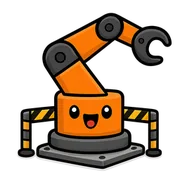
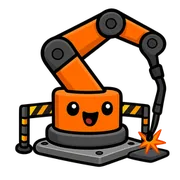
Industrial robot welds; debuts at level 7 with a 'new robot' case page
Claude-Session: https://claude.ai/code/session_019QwctBLnb4UTXMJBnbargq

diff --git a/index.html b/index.html
@@ -845,7 +845,10 @@ SECTORS.sort((a, b) => a.key.codePointAt(0) - b.key.codePointAt(0));
 // 5×6이면 4개짜리 매치가 잦아져 휴머노이드가 너무 쉽게 나와서 5×5 유지
 // 조건 타일: 6단계부터 노사합의(현대차), 9단계부터 해외수출 성조기(미국 손님), 10단계부터 국내생산 태극기(방위산업)
 const BASE_TILES = ['wheel', 'auto', 'arm', 'tool', 'floor', 'legs'];
-const TILE_FROM = { union: 6, made: 9, korea: 10 };  // 노사합의는 타일이 5종인 6단계부터
+const TILE_FROM = { union: 6, made: 9, korea: 10 };
+// 새 로봇이 처음 나오는 단계: 그 전에는 안 나오고, 그 판에는 꼭 나옴 (판 시작에 '새 로봇 등장!' 사례 페이지)
+const ROBOT_FROM = { indus: 7 };
+const robotOpen = (r, lv) => !ROBOT_FROM[r] || lv >= ROBOT_FROM[r];  // 노사합의는 타일이 5종인 6단계부터
 const tileCount = lv => lv >= 10 ? 6 : lv >= 5 ? 5 : 4;
 const poolAt = lv => [...BASE_TILES, ...Object.keys(TILE_FROM).filter(t => lv >= TILE_FROM[t])];
 // 주문 하나에 필요한 부품: 로봇 부품 × 대수 + 해금된 조건 칸(해외수출·국내생산·노사합의 각 1칸 = 그 타일 3개 맞추기)
@@ -872,16 +875,18 @@ function levelDef(lv) {
   const FIXED_SPECIAL = { 5: 'gundam', 8: 'eva', 11: 'term', 14: 'tf' };
   const special = FIXED_SPECIAL[lv] || (lv >= 17 && (lv - 17) % 3 === 0 ? ['term', 'gundam', 'eva', 'tf'][Math.floor(Math.random() * 4)] : 'hum');
   // 특별 로봇에 필요한 일반 부품(SI, 트랜스포머는 바퀴)은 보드에 꼭 포함
-  const must = [...new Set([...ROBOTS[special].parts.filter(p => !isSpec(p)), ...(fresh ? [fresh] : [])])];
+  const debut = Object.keys(ROBOT_FROM).find(r => ROBOT_FROM[r] === lv);
+  const must = [...new Set([...ROBOTS[special].parts.filter(p => !isSpec(p)), ...(fresh ? [fresh] : []), ...(debut ? ROBOTS[debut].parts : [])])].slice(0, n);
   const tryPick = (minRobots, minOrders, allUsed) => {
     for (let k = 0; k < 300; k++) {
       const tiles = [...must, ...shuffled(pool.filter(t => !must.includes(t))).slice(0, n - must.length)];
-      const orders = ORDERS.filter(o => fitsLevel(o, lv, pool) && orderParts(o, pool).every(p => p === special || tiles.includes(p)));
+      const orders = ORDERS.filter(o => robotOpen(o.want, lv) && fitsLevel(o, lv, pool) && orderParts(o, pool).every(p => p === special || tiles.includes(p)));
       const normal = orders.filter(o => !isSpec(o.want));
       const robots = [...new Set(orders.map(o => o.want))];
       if (robots.filter(r => !isSpec(r)).length < minRobots || normal.length < minOrders) continue;
+      if (debut && !robots.includes(debut)) continue;
       if (allUsed && !tiles.every(t => orders.some(o => orderParts(o, pool).includes(t)))) continue;
-      return { lv, tiles, robots, pool, fresh, special };
+      return { lv, tiles, robots, pool, fresh, special, debut };
     }
     return null;
   };
@@ -1726,11 +1731,11 @@ function pickCase() {
   const list = fresh.length ? fresh : all;
   return list.length ? list[Math.floor(Math.random() * list.length)] : null;
 }
-function caseShow(o) {
+function caseShow(o, title = '납품 사례') {
   return new Promise(done => {
     const el = document.createElement('div');
     el.className = 'newtiles casepage';
-    el.innerHTML = `<div class="nt-panel"><div class="nt-head cs-head">납품 사례</div>
+    el.innerHTML = `<div class="nt-panel"><div class="nt-head cs-head">${title}</div>
       <div class="case-bot">${o.robotIcon || ROBOTS[o.want].icon}</div>
       <div class="case-name">${robotLabel(o)}</div>
       <div class="case-where">${o.icon} ${o.ind}${o.who ? ` · ${o.who}` : ''}</div>
@@ -2016,7 +2021,7 @@ const faceHTML = (e, who = 'suit') => FACE_ART[who][e] || FACE_ART.suit[e] || e;
 // 같은 그림이 여러 개 있어도 박자가 겹치지 않게 시작점을 흩뜨림
 // 그림을 다시 그려도 폰에 남은 옛 그림이 보이지 않게 주소에 버전을 붙임
 // 파일마다 내용이 바뀔 때만 새로 받도록 파일 해시를 붙임 (빌드할 때 채움)
-const ART_HASH = {"tile-gundam-a.png": "41a00219", "ind-school-a.png": "1b0fc977", "robot-cobot-cook-b.png": "3f739fa6", "tile-tool-a.png": "f174149f", "tile-made-a.png": "d557ba97", "ind-training-b.png": "0efc1d0b", "robot-qarm-a.png": "901f7afc", "tile-legs-b.png": "c0299b41", "tile-union-b.png": "b3a03a42", "robot-indus-b.png": "beaf9ac1", "face-cook-frown.png": "e01a4907", "face-cook-neutral.png": "71441525", "ind-battery-b.png": "6e2bd18d", "ind-fire-a.png": "a71484d3", "face-trump-neutral.png": "5aecac90", "tile-legs-a.png": "2faadad6", "face-worker-angry.png": "eb6b88ed", "ind-steel-a.png": "0f070238", "face-suitf-delight.png": "d729900f", "ind-steel-b.png": "e122612f", "ind-defense-b.png": "5aa959f1", "face-cook-angry.png": "50c65318", "ind-port-b.png": "6f5dc395", "tile-tf-a.png": "d2bc0939", "ind-factory-a.png": "909659fd", "tile-term-b.png": "fa8e5b3f", "face-neutral.png": "a9a959b5", "tile-wheel-a.png": "9e98ebac", "face-cook-smile.png": "be9219e0", "robot-indus-a.png": "2bfe4680", "tile-korea-b.png": "ebe1008b", "face-trump-tear.png": "21d22245", "tile-auto-b.png": "bb58686e", "ind-material-b.png": "a8f27197", "tile-korea-a.png": "d1987f19", "tile-union-a.png": "d48507d4", "ind-auto-a.png": "9a8abf4f", "face-frown.png": "26865767", "robot-centaur-a.png": "a9e1e03b", "tile-auto-a.png": "e7100d25", "robot-cobot-cook-a.png": "2acb022c", "face-worker-tear.png": "940dcfc3", "ind-autoparts-b.png": "a5dbd76a", "face-suitf-angry.png": "5b24ceb5", "face-suitf-tear.png": "d0923069", "robot-centaur-b.png": "848f1932", "robot-mm-a.png": "e5da97cf", "ind-defense-a.png": "23a0651c", "robot-quad-a.png": "1e1384cf", "ind-autoparts-a.png": "26dcf7ce", "tile-eva-b.png": "b64d5546", "face-cook-tear.png": "d529800c", "tile-gundam-b.png": "69722c17", "face-trump-delight.png": "e41c1f7d", "face-angry.png": "8542c3c5", "tile-floor-b.png": "7bfb4d09", "face-suitf-smile.png": "2bfa949d", "ind-material-a.png": "2c67685e", "tile-term-a.png": "f86a988f", "tile-eva-a.png": "48055f29", "tile-hum-a.png": "cdc85433", "ind-port-a.png": "0e5340b9", "ind-police-a.png": "717025fa", "wheel-tilt-ref.png": "4a1e31a2", "robot-cobot-a.png": "bb066d5e", "face-trump-angry.png": "6fc0cf6d", "tile-wheel-b.png": "df5d2104", "face-worker-neutral.png": "f4f1ff96", "robot-amr-a.png": "21455470", "face-delight.png": "4b63238d", "face-trump-frown.png": "4102f723", "robot-mm-b.png": "41cc89c7", "ind-fire-b.png": "c530534e", "ind-police-b.png": "750b1169", "ind-ess-b.png": "c7fac005", "ind-training-a.png": "a9fe00e5", "tile-tf-b.png": "23f3efda", "ind-aircraft-a.png": "53a6b218", "ind-school-b.png": "a14af652", "tile-arm-b.png": "6cb9dab3", "face-worker-delight.png": "56fdb189", "face-worker-smile.png": "7eaefd7c", "robot-quad-b.png": "9b27fe7b", "ind-chicken-a.png": "bd4bc4e3", "face-cook-delight.png": "5ceb20b0", "ind-battery-a.png": "2ead7359", "robot-agv-b.png": "397f8942", "face-tear.png": "7cacead6", "face-suitf-neutral.png": "b29259fe", "ind-auto-b.png": "f90715bb", "ind-shipyard-a.png": "7c43481e", "tile-tool-b.png": "c8c8a23a", "ind-factory-b.png": "b9dfaab4", "ind-chicken-b.png": "b4930a6b", "ind-shipyard-b.png": "098fdbae", "robot-qarm-b.png": "abd9a737", "tile-arm-a.png": "cd420a51", "tile-made-b.png": "7077aabd", "tile-floor-a.png": "14074a30", "robot-cobot-weld-a.png": "da53987b", "robot-agv-a.png": "ee67b65c", "ind-logistics-b.png": "9c5aeeca", "face-smile.png": "786eeb95", "face-worker-frown.png": "0f8d8086", "robot-cobot-weld-b.png": "a9e69108", "robot-amr-b.png": "e23a5198", "tile-hum-b.png": "01ca7c8b", "ind-ess-a.png": "83fff111", "face-suitf-frown.png": "1236f440", "ind-aircraft-b.png": "6afa5f2a", "face-trump-smile.png": "03674df8", "robot-cobot-b.png": "7ea58bc1", "ind-logistics-a.png": "b1b04f38"};
+const ART_HASH = {"tile-gundam-a.png": "41a00219", "ind-school-a.png": "1b0fc977", "robot-cobot-cook-b.png": "3f739fa6", "tile-tool-a.png": "f174149f", "tile-made-a.png": "d557ba97", "ind-training-b.png": "0efc1d0b", "robot-qarm-a.png": "901f7afc", "tile-legs-b.png": "c0299b41", "tile-union-b.png": "b3a03a42", "robot-indus-b.png": "565ad815", "face-cook-frown.png": "e01a4907", "face-cook-neutral.png": "71441525", "ind-battery-b.png": "6e2bd18d", "ind-fire-a.png": "a71484d3", "face-trump-neutral.png": "5aecac90", "tile-legs-a.png": "2faadad6", "face-worker-angry.png": "eb6b88ed", "ind-steel-a.png": "0f070238", "face-suitf-delight.png": "d729900f", "ind-steel-b.png": "e122612f", "ind-defense-b.png": "5aa959f1", "face-cook-angry.png": "50c65318", "ind-port-b.png": "6f5dc395", "tile-tf-a.png": "d2bc0939", "ind-factory-a.png": "909659fd", "tile-term-b.png": "fa8e5b3f", "face-neutral.png": "a9a959b5", "tile-wheel-a.png": "9e98ebac", "face-cook-smile.png": "be9219e0", "robot-indus-a.png": "ff622ca7", "tile-korea-b.png": "ebe1008b", "face-trump-tear.png": "21d22245", "tile-auto-b.png": "bb58686e", "ind-material-b.png": "a8f27197", "tile-korea-a.png": "d1987f19", "tile-union-a.png": "d48507d4", "ind-auto-a.png": "9a8abf4f", "face-frown.png": "26865767", "robot-centaur-a.png": "a9e1e03b", "tile-auto-a.png": "e7100d25", "robot-cobot-cook-a.png": "2acb022c", "face-worker-tear.png": "940dcfc3", "ind-autoparts-b.png": "a5dbd76a", "face-suitf-angry.png": "5b24ceb5", "face-suitf-tear.png": "d0923069", "robot-centaur-b.png": "848f1932", "robot-mm-a.png": "e5da97cf", "ind-defense-a.png": "23a0651c", "robot-quad-a.png": "1e1384cf", "ind-autoparts-a.png": "26dcf7ce", "tile-eva-b.png": "b64d5546", "face-cook-tear.png": "d529800c", "tile-gundam-b.png": "69722c17", "face-trump-delight.png": "e41c1f7d", "face-angry.png": "8542c3c5", "tile-floor-b.png": "7bfb4d09", "face-suitf-smile.png": "2bfa949d", "ind-material-a.png": "2c67685e", "tile-term-a.png": "f86a988f", "tile-eva-a.png": "48055f29", "tile-hum-a.png": "cdc85433", "ind-port-a.png": "0e5340b9", "ind-police-a.png": "717025fa", "wheel-tilt-ref.png": "4a1e31a2", "robot-cobot-a.png": "bb066d5e", "face-trump-angry.png": "6fc0cf6d", "tile-wheel-b.png": "df5d2104", "indus-ref.png": "2bfe4680", "face-worker-neutral.png": "f4f1ff96", "robot-amr-a.png": "21455470", "face-delight.png": "4b63238d", "face-trump-frown.png": "4102f723", "robot-mm-b.png": "41cc89c7", "ind-fire-b.png": "c530534e", "ind-police-b.png": "750b1169", "ind-ess-b.png": "c7fac005", "ind-training-a.png": "a9fe00e5", "tile-tf-b.png": "23f3efda", "ind-aircraft-a.png": "53a6b218", "ind-school-b.png": "a14af652", "tile-arm-b.png": "6cb9dab3", "face-worker-delight.png": "56fdb189", "face-worker-smile.png": "7eaefd7c", "robot-quad-b.png": "9b27fe7b", "ind-chicken-a.png": "bd4bc4e3", "face-cook-delight.png": "5ceb20b0", "ind-battery-a.png": "2ead7359", "robot-agv-b.png": "397f8942", "face-tear.png": "7cacead6", "face-suitf-neutral.png": "b29259fe", "ind-auto-b.png": "f90715bb", "ind-shipyard-a.png": "7c43481e", "tile-tool-b.png": "c8c8a23a", "ind-factory-b.png": "b9dfaab4", "ind-chicken-b.png": "b4930a6b", "ind-shipyard-b.png": "098fdbae", "robot-qarm-b.png": "abd9a737", "tile-arm-a.png": "cd420a51", "tile-made-b.png": "7077aabd", "tile-floor-a.png": "14074a30", "robot-cobot-weld-a.png": "da53987b", "robot-agv-a.png": "ee67b65c", "ind-logistics-b.png": "9c5aeeca", "face-smile.png": "786eeb95", "face-worker-frown.png": "0f8d8086", "robot-cobot-weld-b.png": "a9e69108", "robot-amr-b.png": "e23a5198", "tile-hum-b.png": "01ca7c8b", "ind-ess-a.png": "83fff111", "face-suitf-frown.png": "1236f440", "ind-aircraft-b.png": "6afa5f2a", "face-trump-smile.png": "03674df8", "robot-cobot-b.png": "7ea58bc1", "ind-logistics-a.png": "b1b04f38"};
 // 게임에서는 가벼운 webp(assets/w/)를 씀. 파일 이름은 png와 같고 확장자만 다름
 const av = f => { const n = f.replace('assets/', ''); return `assets/w/${n.replace(/\.png$/, '.webp')}?v=${ART_HASH[n] || '0'}`; };
 // 업종 아이콘(ind-)은 a프레임만, 로봇·부품은 a·b를 번갈아 (팔이 까딱, 다리가 제자리걸음 등)
@@ -2378,7 +2383,7 @@ function banner(text, delay) {
 }
 
 // ───────── 진행 ─────────
-const BUILD_V = '1003-194641';
+const BUILD_V = '1003-194929';
 function loop(t) {
   const dt = Math.min(0.1, (t - (S.last || t)) / 1000);
   S.last = t;
@@ -2415,7 +2420,10 @@ function startLevel() {
   // 처음 나오는 타일이 있으면 설명 창부터, 그다음 시작 연출, 그 뒤 첫 주문서
   const fresh = freshTiles();
   if (fresh.length) onStage(() => newTilesShow(fresh));
-  else { const cs = pickCase(); if (cs) onStage(() => caseShow(cs)); }  // 새 타일이 없으면 납품 사례 한 페이지
+  // 새 로봇이 처음 나오는 판: 그 로봇의 사례를 '새 로봇 등장!'으로. 아니면 새 타일이 없을 때만 무작위 납품 사례
+  const debutCase = S.def.debut && ORDERS.find(o => o.want === S.def.debut && CASE_WHY[o.id]);
+  if (debutCase) onStage(() => caseShow(debutCase, '새 로봇 등장!'));
+  else if (!fresh.length) { const cs = pickCase(); if (cs) onStage(() => caseShow(cs)); }
   onStage(startShow);
   addClient(0);
   S.spawnT = 2;
